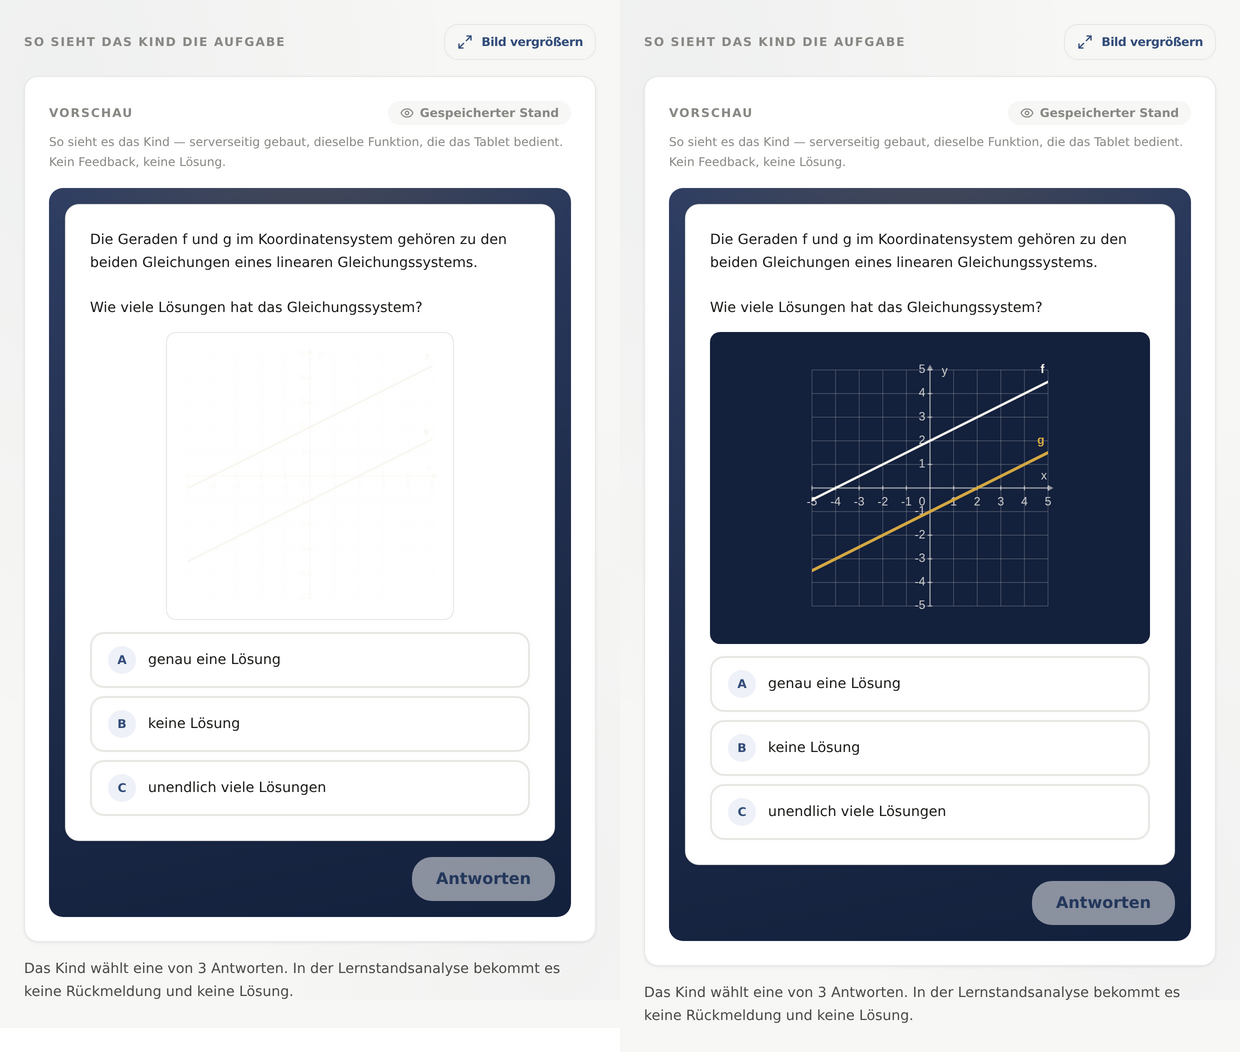
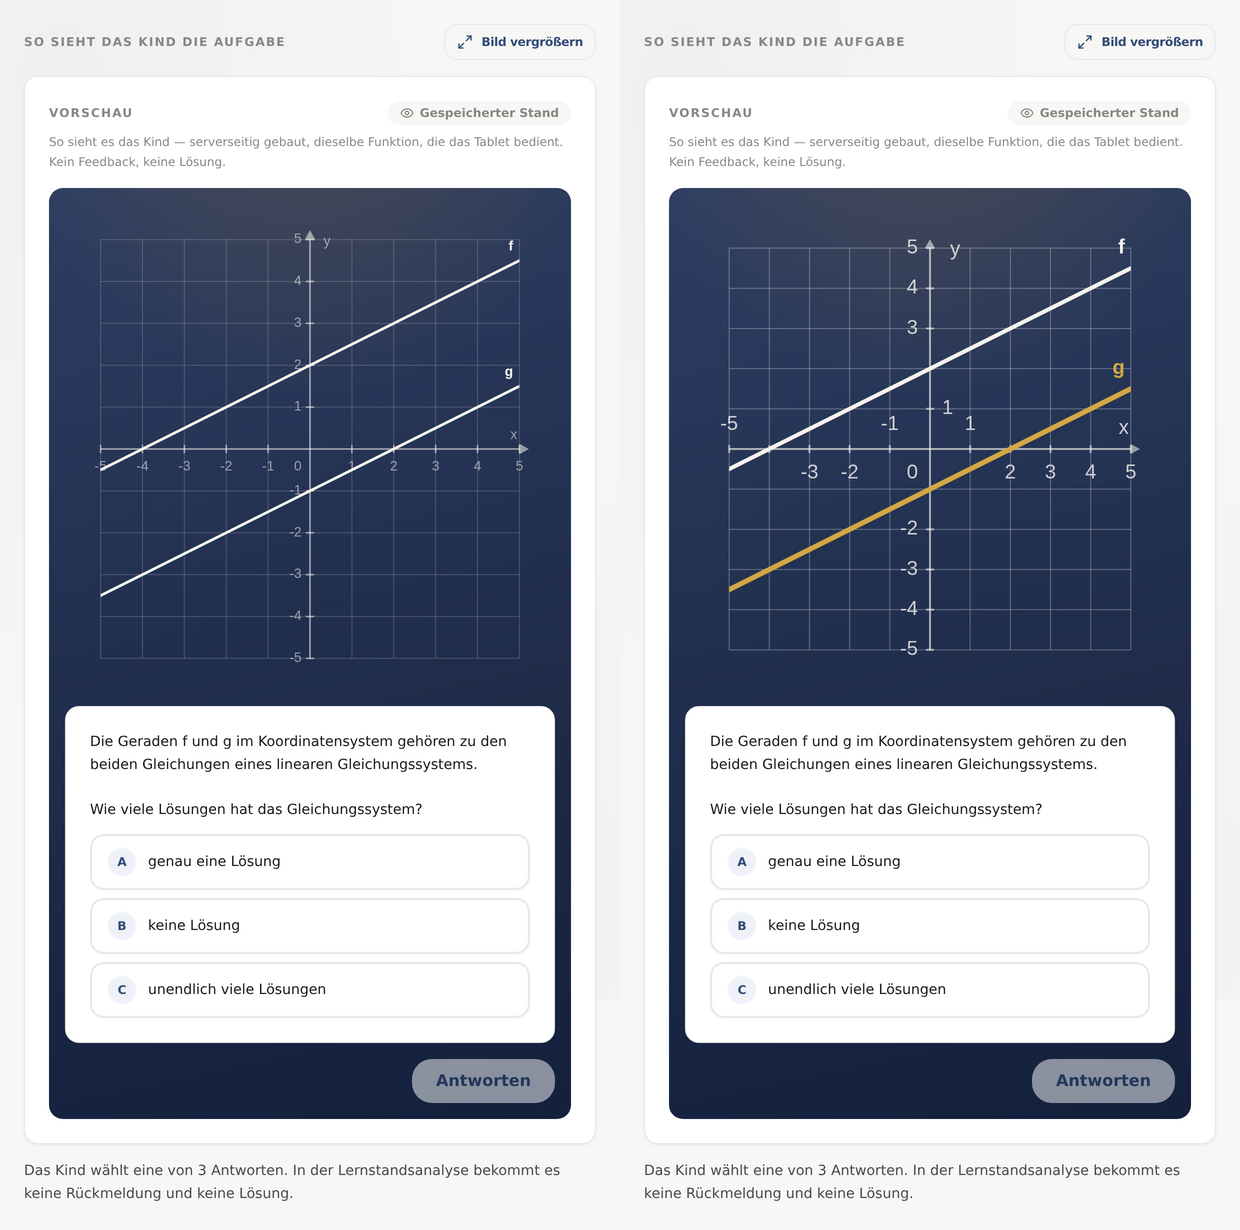
fix(figuren): Achsenzahlen ohne Ueberlappung, Pruefung auf ueberlappende Beschriftung
- achsenzahlen.py: Zahl an ihrem Stammplatz, sonst auf der anderen Achsenseite, sonst weglassen;
  0 einmal links unter dem Ursprung, y-Zahlen mit Abstand links der Achse, Titel weichen aus
- pruefe_koordinatensystem.pruefe_beschriftung_frei mit zwei Negativkontrollen
- Screenshots LGS vorher/nachher mit dem Stand von dev (#270)

diff --git a/scripts/figures/achsenzahlen.py b/scripts/figures/achsenzahlen.py
@@ -1,0 +1,103 @@
+"""
+Achsenzahlen des Koordinatensystems — ohne Ueberlappung (Pruefung App-Darstellung, 18.10.2026).
+
+Mit Schrift 20 lagen „0“ und „-1“ am Ursprung uebereinander, und Randzahlen stiessen
+an die Kurven. Jede Zahl bekommt einen geschaetzten Textkasten (svg_basis.text_kasten):
+  - Stammplatz: x-Zahlen unter der Achse, y-Zahlen links der Achse (mit Abstand),
+    die 0 einmal links unter dem Ursprung.
+  - Stoesst eine Zahl dort an eine schon gesetzte Zahl oder an eine Kurve, steht sie
+    auf der anderen Seite der Achse.
+  - Geht beides nicht, entfaellt sie — das Gitter zeigt den Massstab weiter.
+pruefe_koordinatensystem.pruefe_beschriftung_frei prueft das am fertigen SVG nach.
+"""
+
+from __future__ import annotations
+
+from typing import Callable
+
+from .svg_basis import beschriftung, kaesten_ueberlappen, linie, strecke_trifft_kasten, text_kasten
+from .tokens import SCHRIFT, Palette
+
+
+def achsenzahlen_svg(
+    px: Callable[[float], float],
+    py: Callable[[float], float],
+    fenster: tuple[int, int, int, int],
+    flaeche: tuple[float, float, float, float],
+    achse_x: float,
+    achse_y: float,
+    null_sichtbar: bool,
+    kurven_px: list[list[tuple[float, float]]],
+    farben: Palette,
+    skala: float,
+    schriftgroesse: float,
+    stark_achse: float,
+    stark_betont: float,
+    belegt: list[tuple[float, float, float, float]] | None = None,
+    titel: tuple[str, str] = ('', ''),
+) -> list[str]:
+    """Teilstriche und Zahlen. `belegt`: Kaesten der schon gesetzten Texte (Titel, Punkte, Labels)."""
+    x_min, x_max, y_min, y_max = fenster
+    links, oben, rechts, unten = flaeche
+    strich = 4 * skala
+    abstand_y = strich + 8 * skala
+    luft = 2 * skala
+    # Zwischen zwei Texten mehr Luft: „-1“ und „0“ dicht nebeneinander lesen sich wie „-10“.
+    luft_text = 0.4 * schriftgroesse
+    halb_strich = stark_betont / 2 + luft
+    belegt = list(belegt or [])
+    teile: list[str] = []
+
+    def trifft_kurve(k: tuple[float, float, float, float]) -> bool:
+        # Nur innerhalb der Zeichenflaeche: ausserhalb schneidet der clipPath die Kurve weg.
+        weit = (max(k[0] - halb_strich, links), max(k[1] - halb_strich, oben),
+                min(k[2] + halb_strich, rechts), min(k[3] + halb_strich, unten))
+        if weit[0] > weit[2] or weit[1] > weit[3]:
+            return False
+        return any(strecke_trifft_kasten(zug[i], zug[i + 1], weit)
+                   for zug in kurven_px for i in range(len(zug) - 1))
+
+    def setze(text: str, kandidaten: list[tuple[float, float, str]], pflicht: bool = False) -> None:
+        # pflicht: ein Achsentitel entfaellt nie; passt keine Stelle, steht er an der ersten.
+        for nr, (x, y, anker) in enumerate(kandidaten):
+            k = text_kasten(x, y, text, schriftgroesse, anker)
+            letzte = pflicht and nr == len(kandidaten) - 1
+            if not letzte and (any(kaesten_ueberlappen(k, b, luft_text) for b in belegt) or trifft_kurve(k)):
+                continue
+            belegt.append(k)
+            teile.append(beschriftung(
+                x, y, text, farben.beschriftung, schriftgroesse, SCHRIFT, anker=anker, grundlinie='middle',
+            ))
+            return
+
+    # Achsentitel zuerst: x ueber dem rechten Achsenende, y rechts neben der Spitze;
+    # ausweichen nach unten bzw. links (etwa vor einem Steigungsdreieck).
+    titel_x, titel_y = titel
+    if titel_x:
+        setze(titel_x, [(rechts - 2 * skala, achse_y - schriftgroesse, 'end'),
+                        (rechts - 2 * skala, achse_y + strich + 2 * schriftgroesse, 'end'),
+                        (rechts + schriftgroesse, achse_y - schriftgroesse, 'start'),
+                        (rechts + schriftgroesse, achse_y + schriftgroesse, 'start')], pflicht=True)
+    if titel_y:
+        setze(titel_y, [(achse_x + schriftgroesse, oben + 2 * skala, 'start'),
+                        (achse_x - schriftgroesse, oben + 2 * skala, 'end'),
+                        (achse_x + schriftgroesse, oben - schriftgroesse, 'start'),
+                        (achse_x - schriftgroesse, oben - schriftgroesse, 'end')], pflicht=True)
+    if null_sichtbar:
+        # Einmal, links unter dem Ursprung; geht dort eine Kurve durch, rechts darunter
+        # oder links darueber.
+        setze('0', [(achse_x - abstand_y, achse_y + strich + schriftgroesse, 'end'),
+                    (achse_x + abstand_y, achse_y + strich + schriftgroesse, 'start'),
+                    (achse_x - abstand_y, achse_y - strich - schriftgroesse, 'end')])
+    for x in range(x_min, x_max + 1):
+        if x == 0:
+            continue
+        teile.append(linie(px(x), achse_y - strich, px(x), achse_y + strich, farben.achse, stark_achse))
+        setze(str(x), [(px(x), achse_y + strich + schriftgroesse, 'middle'),
+                       (px(x), achse_y - strich - schriftgroesse, 'middle')])
+    for y in range(y_min, y_max + 1):
+        if y == 0:
+            continue
+        teile.append(linie(achse_x - strich, py(y), achse_x + strich, py(y), farben.achse, stark_achse))
+        setze(str(y), [(achse_x - abstand_y, py(y), 'end'), (achse_x + abstand_y, py(y), 'start')])
+    return teile

diff --git a/scripts/figures/pruefe_koordinatensystem.py b/scripts/figures/pruefe_koordinatensystem.py
@@ -343,6 +343,41 @@ def _mengen_gleich(a: list[float], b: list[float]) -> bool:
     return all(abs(x - y) < EPS_EXAKT for x, y in zip(a, b))
 
 
+def pruefe_beschriftung_frei(svg: str, params: dict) -> list[str]:
+    """
+    g) Keine Beschriftung ueberlappt eine andere, und keine Achsenzahl liegt auf
+    einer Kurve. Mit Schrift 20 lagen „0“ und „-1“ am Ursprung uebereinander und
+    Randzahlen an der Kurve (Pruefung App-Darstellung, 18.10.2026).
+
+    Gemessen an den geschaetzten Textkaesten (svg_basis.text_kasten) und an den
+    Kurven, soweit sie in der Zeichenflaeche (clipPath) liegen.
+    """
+    from figures.svg_basis import kaesten_ueberlappen, strecke_trifft_kasten, textkaesten
+
+    befunde: list[str] = []
+    texte = [m.group(1) for m in re.finditer(r'<text [^>]*>([^<]*)</text>', svg)]
+    kaesten = textkaesten(svg)
+    for i in range(len(kaesten)):
+        for j in range(i + 1, len(kaesten)):
+            if kaesten_ueberlappen(kaesten[i], kaesten[j]):
+                befunde.append(f'g) Beschriftungen {texte[i]!r} und {texte[j]!r} ueberlappen.')
+    clip = re.search(r'<clipPath [^>]*><rect x="([\d.-]+)" y="([\d.-]+)" width="([\d.-]+)" height="([\d.-]+)"', svg)
+    if not clip:
+        return befunde
+    cx, cy, cb, ch = (float(clip.group(i)) for i in range(1, 5))
+    kurven = [[tuple(map(float, p.split(','))) for p in m.group(1).split()]
+              for m in re.finditer(r'<polyline points="([^"]+)"', svg)]
+    for text, k in zip(texte, kaesten):
+        if not re.fullmatch(r'-?\d+', text):
+            continue
+        innen = (max(k[0], cx), max(k[1], cy), min(k[2], cx + cb), min(k[3], cy + ch))
+        if innen[0] > innen[2] or innen[1] > innen[3]:
+            continue
+        if any(strecke_trifft_kasten(z[i], z[i + 1], innen) for z in kurven for i in range(len(z) - 1)):
+            befunde.append(f'g) Achsenzahl {text!r} liegt auf einer Kurve.')
+    return befunde
+
+
 # ── Sammelpruefung + Adapter fuer den Upload ─────────────────────────────────
 
 _ALLE = (
@@ -353,6 +388,7 @@ _ALLE = (
     pruefe_punkte,
     pruefe_gitter,
     pruefe_steigungsdreiecke,
+    pruefe_beschriftung_frei,
 )
 
 
@@ -416,9 +452,22 @@ def _erste_gerade_verbiegen(svg: str, dy: float) -> str:
     return re.sub(r'<polyline points="([^"]+)"', einmal, svg, count=1)
 
 
+def _text_doppeln(svg: str, inhalt: str) -> str:
+    """Setzt den Text `inhalt` ein zweites Mal, 6 px tiefer — wie zwei Achsenschleifen, die beide die 0 schreiben."""
+    m = re.search(rf'<text x="([\d.-]+)" y="([\d.-]+)"([^>]*)>{re.escape(inhalt)}</text>', svg)
+    doppel = f'<text x="{m.group(1)}" y="{float(m.group(2)) + 6:g}"{m.group(3)}>{inhalt}</text>'
+    return svg.replace('</svg>', doppel + '</svg>')
+
+
+def _text_auf_punkt(svg: str, inhalt: str, x: float, y: float) -> str:
+    """Verschiebt den ersten Text `inhalt` auf den Pixelort (x, y)."""
+    return re.sub(rf'<text x="[\d.-]+" y="[\d.-]+"([^>]*)>{re.escape(inhalt)}</text>',
+                  f'<text x="{x:g}" y="{y:g}"\\1>{inhalt}</text>', svg, count=1)
+
+
 def negativkontrolle() -> list[tuple[str, bool, list[str]]]:
     """
-    Fuenf Verletzungen an korrekten SVGs. Rueckgabe je Fall:
+    Sieben Verletzungen an korrekten SVGs. Rueckgabe je Fall:
     (Name, hat_angeschlagen, Befunde). hat_angeschlagen == False ist ein Versagen
     der Pruefung selbst.
     """
@@ -444,6 +493,10 @@ def negativkontrolle() -> list[tuple[str, bool, list[str]]]:
          _erste_kreis_cx(koordinatensystem(**mit_punkt), 9000.0), mit_punkt),
         ('Steigungsdreieck falsch beschriftet',
          koordinatensystem(**mit_dreieck).replace('>hoch 6<', '>hoch 5<'), mit_dreieck),
+        ('Null doppelt am Ursprung (ueberlappende Beschriftung)',
+         _text_doppeln(koordinatensystem(**mit_punkt), '0'), mit_punkt),
+        ('Achsenzahl auf die Kurve geschoben',
+         _text_auf_punkt(koordinatensystem(**mit_gerade), '2', 284, 124), mit_gerade),
     ]
 
     ergebnis = []

diff --git a/scripts/figures/koordinatensystem.py b/scripts/figures/koordinatensystem.py
@@ -37,6 +37,7 @@ from .pruefungen import (
     wahrheitswert,
 )
 from .svg_basis import (
+    textkaesten,
     beschriftung,
     dokument,
     element,
@@ -46,6 +47,7 @@ from .svg_basis import (
     polylinie,
     zahl,
 )
+from .achsenzahlen import achsenzahlen_svg
 from .steigungsdreieck import label_unten, steigungsdreiecke_svg
 from .tokens import SCHRIFT, SCHRIFTGROESSE, STARK_ACHSE, STARK_BETONT, STARK_KURVE, palette
 
@@ -297,48 +299,12 @@ def koordinatensystem(
         (achse_x + spitze, oben),
     ], farben.achse))
 
-    strich = 4 * skala
-    for x in range(x_min, x_max + 1):
-        if x == 0:
-            continue
-        achsen_teile.append(
-            linie(px(x), achse_y - strich, px(x), achse_y + strich, farben.achse, stark_achse)
-        )
-        achsen_teile.append(beschriftung(
-            px(x), achse_y + strich + schriftgroesse, str(x),
-            farben.beschriftung, schriftgroesse, SCHRIFT, anker='middle', grundlinie='middle',
-        ))
-    for y in range(y_min, y_max + 1):
-        if y == 0:
-            continue
-        achsen_teile.append(
-            linie(achse_x - strich, py(y), achse_x + strich, py(y), farben.achse, stark_achse)
-        )
-        achsen_teile.append(beschriftung(
-            achse_x - strich - 4 * skala, py(y), str(y),
-            farben.beschriftung, schriftgroesse, SCHRIFT, anker='end', grundlinie='middle',
-        ))
-
-    if null_sichtbar:
-        # Die Null steht EINMAL, links unter dem Ursprung — nicht zweimal
-        # uebereinander wie es zwei unabhaengige Achsenschleifen taeten.
-        achsen_teile.append(beschriftung(
-            achse_x - strich - 4 * skala, achse_y + strich + schriftgroesse, '0',
-            farben.beschriftung, schriftgroesse, SCHRIFT, anker='end', grundlinie='middle',
-        ))
-
-    if titel_x:
-        achsen_teile.append(beschriftung(
-            rechts - 2 * skala, achse_y - schriftgroesse, titel_x,
-            farben.beschriftung, schriftgroesse, SCHRIFT, anker='end', grundlinie='middle',
-        ))
-    if titel_y:
-        achsen_teile.append(beschriftung(
-            achse_x + schriftgroesse, oben + 2 * skala, titel_y,
-            farben.beschriftung, schriftgroesse, SCHRIFT, anker='start', grundlinie='middle',
-        ))
-
-    inhalt.append(element('g', [], ''.join(achsen_teile)))
+    # Die Achsenzahlen kommen ZULETZT dazu (siehe unten): sie weichen allen anderen
+    # Texten aus, darum muessen die schon stehen. Gezeichnet wird trotzdem hier.
+    achsen_index = len(inhalt)
+    inhalt.append('')
+    # Jetzt festhalten: `unten` wird weiter unten (Punkte) als Wahrheitswert wiederverwendet.
+    zeichenflaeche = (links, oben, rechts, unten)
 
     # ── Funktionen ───────────────────────────────────────────────────────────
     # Ein Abtastpunkt je Pixel: feiner als die Ausgabe aufloest, damit eine
@@ -408,6 +374,18 @@ def koordinatensystem(
     if punkt_teile:
         inhalt.append(element('g', [], ''.join(punkt_teile)))
 
+    kurven_px = [
+        [(px(x), py(y)) for x, y in teil]
+        for funktion in geprueft_f
+        for teil in _segmente(funktion, x_min, x_max, y_min, y_max, max(2, int(breite_plot)))
+    ]
+    achsen_teile.extend(achsenzahlen_svg(
+        px, py, (x_min, x_max, y_min, y_max), zeichenflaeche, achse_x, achse_y,
+        null_sichtbar, kurven_px, farben, skala, schriftgroesse, stark_achse, stark_betont,
+        titel=(titel_x, titel_y),
+        belegt=textkaesten('\n'.join(inhalt) + ''.join(achsen_teile)),
+    ))
+    inhalt[achsen_index] = element('g', [], ''.join(achsen_teile))
     return dokument(breite, hoehe, inhalt)
 
 

diff --git a/scripts/figures/svg_basis.py b/scripts/figures/svg_basis.py
@@ -213,6 +213,45 @@ def _text_roh(inhalt: str) -> str:
     return inhalt.replace('&lt;', '<').replace('&gt;', '>').replace('&amp;', '&')
 
 
+def text_kasten(x: float, y: float, inhalt: str, groesse: float, anker: str = 'middle',
+                fett: bool = False) -> tuple[float, float, float, float]:
+    """Geschaetzter Kasten (x0, y0, x1, y1) eines Texts mit dominant-baseline=middle."""
+    weite = len(inhalt) * groesse * (TEXT_LAUFWEITE_FETT if fett else TEXT_LAUFWEITE)
+    links = x - weite / 2 if anker == 'middle' else x - weite if anker == 'end' else x
+    return links, y - groesse * TEXT_HALBE_HOEHE, links + weite, y + groesse * TEXT_HALBE_HOEHE
+
+
+def textkaesten(svg: str) -> list[tuple[float, float, float, float]]:
+    """Die Kaesten aller <text>-Elemente eines SVG, in Dokumentreihenfolge."""
+    import re
+
+    aus = []
+    for m in re.finditer(r'<text x="([\d.-]+)" y="([\d.-]+)"([^>]*)>([^<]*)</text>', svg):
+        attr = m.group(3)
+        groesse = float(re.search(r'font-size="([\d.]+)"', attr).group(1))
+        anker = (re.search(r'text-anchor="(\w+)"', attr) or [None, 'start'])[1]
+        aus.append(text_kasten(float(m.group(1)), float(m.group(2)), _text_roh(m.group(4)), groesse, anker,
+                               'font-weight' in attr))
+    return aus
+
+
+def kaesten_ueberlappen(a, b, luft: float = 0.0) -> bool:
+    """Ueberlappen zwei Kaesten (x0, y0, x1, y1), mit `luft` Mindestabstand?"""
+    return a[0] < b[2] + luft and b[0] < a[2] + luft and a[1] < b[3] + luft and b[1] < a[3] + luft
+
+
+def strecke_trifft_kasten(p, q, kasten, schritt: float = 1.0) -> bool:
+    """Beruehrt die Strecke p-q den Kasten? Abgetastet im Pixelabstand — genau genug fuer Beschriftung."""
+    laenge = max(abs(q[0] - p[0]), abs(q[1] - p[1]))
+    n = max(1, int(laenge / schritt))
+    for i in range(n + 1):
+        x = p[0] + (q[0] - p[0]) * i / n
+        y = p[1] + (q[1] - p[1]) * i / n
+        if kasten[0] <= x <= kasten[2] and kasten[1] <= y <= kasten[3]:
+            return True
+    return False
+
+
 def umriss(svg: str) -> tuple[float, float, float, float]:
     """
     (x0, y0, x1, y1) aller gezeichneten Elemente: Linien und Streckenzuege mit
@@ -247,15 +286,9 @@ def umriss(svg: str) -> tuple[float, float, float, float]:
         x, y, b, h = (float(m.group(i)) for i in range(1, 5))
         xs += [x - s, x + b + s]
         ys += [y - s, y + h + s]
-    for m in re.finditer(r'<text x="([\d.-]+)" y="([\d.-]+)"([^>]*)>([^<]*)</text>', svg):
-        attr = m.group(3)
-        groesse = float(re.search(r'font-size="([\d.]+)"', attr).group(1))
-        anker = (re.search(r'text-anchor="(\w+)"', attr) or [None, 'start'])[1]
-        weite = len(_text_roh(m.group(4))) * groesse * (TEXT_LAUFWEITE_FETT if 'font-weight' in attr else TEXT_LAUFWEITE)
-        x, y = float(m.group(1)), float(m.group(2))
-        links = x - weite / 2 if anker == 'middle' else x - weite if anker == 'end' else x
-        xs += [links, links + weite]
-        ys += [y - groesse * TEXT_HALBE_HOEHE, y + groesse * TEXT_HALBE_HOEHE]
+    for k in textkaesten(svg):
+        xs += [k[0], k[2]]
+        ys += [k[1], k[3]]
     if not xs:
         raise ValueError('Nichts gezeichnet — kein Umriss.')
     return min(xs), min(ys), max(xs), max(ys)

diff --git a/docs/retros/2026-10-18-figuren-welle1.md b/docs/retros/2026-10-18-figuren-welle1.md
@@ -15,6 +15,10 @@
 - Zusatz aus der Pruefung der App-Darstellung: Schrift 20, Striche Achse 2 / Kurve 4 / betont 5, Rand 44, Palette
   dunkel Gitter 0.30 / Beschriftung 0.80, jede zweite Funktion Gold. Groessen zentral in `tokens.py`, dieselben Werte in
   `svgBasis.ts`/`rechteck.ts`.
+- Achsenzahlen ohne Ueberlappung (`achsenzahlen.py`): Stammplatz, sonst andere Achsenseite, sonst weglassen; die 0
+  einmal links unter dem Ursprung (Ausweichplaetze, wenn eine Gerade durch den Ursprung geht); Titel weichen aus.
+  `pruefe_koordinatensystem.pruefe_beschriftung_frei` prueft Ueberlappung und Zahlen auf Kurven, mit zwei
+  Negativkontrollen.
 - Knappe viewBox fuer winkel, thales, rechtecke (Rasit, 18.10.): Umriss alles Gezeichneten plus 16 px Rand
   (`svg_basis.dokument_knapp`), geprueft von `pruefe_knapper_rahmen` (nichts ragt hinaus, kein Rand groesser als 16).
 
@@ -28,6 +32,7 @@
 ## Offen
 - `svg_hash` haengt nur an generator + params. Ein `--force`-Upload ueberschreibt die Dateien unter derselben URL;
   Clients mit gecachter Datei sehen die alte Fassung, bis der Cache verfaellt.
-- Koordinatensystem: An der Ecke unten links stehen „-1“ der x-Achse, „0“ und „-1“ der y-Achse eng beieinander (z. B.
-  0315634a). War vorher genauso, mit Schrift 20 faellt es mehr auf.
+- Achsenzahlen (achsenzahlen.py): Wo eine Gerade durch den Platz einer Zahl laeuft und auch die andere Achsenseite
+  belegt ist, entfaellt die Zahl; das Gitter zeigt den Massstab weiter. In den LGS-Figuren fehlen dadurch einzelne Zahlen.
+- `koordinatensystem.py` hat 412 Zeilen (vorher 431), die Grenze von 400 ist weiter ueberschritten.
 - `scripts/figures/` hat keinen CI-Job; die Python-Tests laufen nur lokal.
